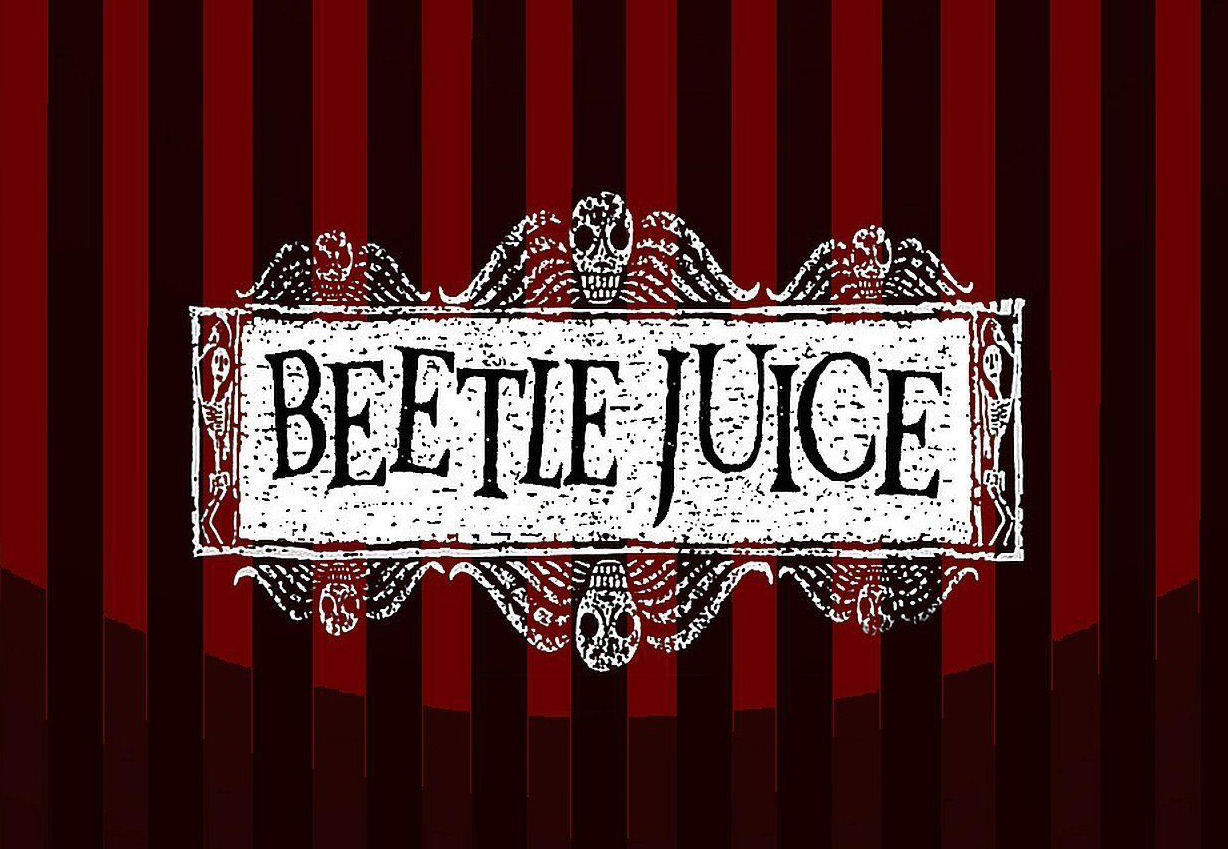
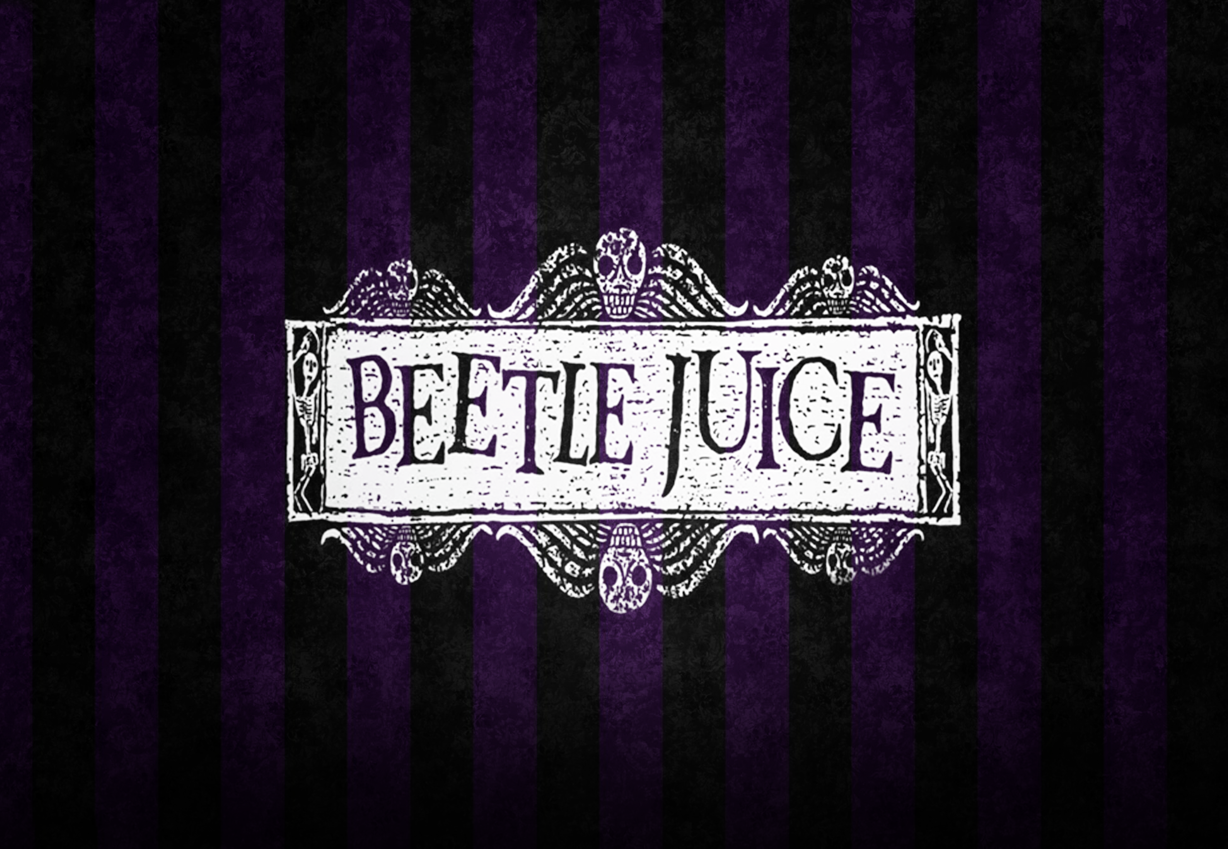
new bg

diff --git a/assets/css/style.css b/assets/css/style.css
@@ -1,6 +1,6 @@
 .bg {
     background-color: black;
-    background-image: url("../images/test2.png");
+    background-image: url("../images/test3.png");
     /* Full height */
     width: 100%;
     /* Center and scale the image nicely */
